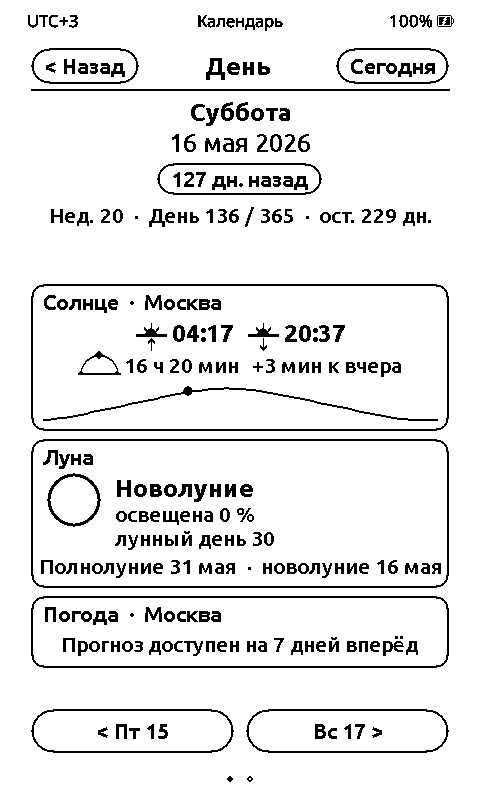
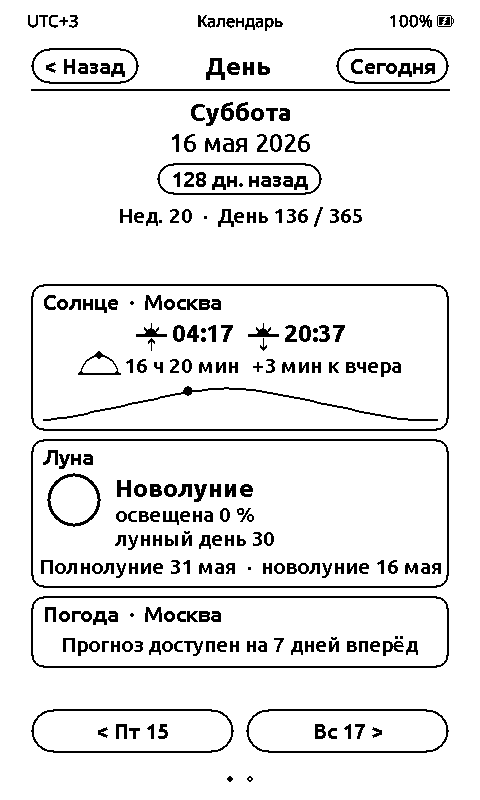
Понятная легенда «7 дней», убрано «ост. N дн.» на экране «День»
- Легенда: образцы полосы — чёрная часть «диапазон этого дня», пустая «остальная неделя»
- Экран «День»: из строки чипсов убрано «ост. N дн.»

diff --git a/overlay/src/activities/apps/standby/CalendarDetail.cpp b/overlay/src/activities/apps/standby/CalendarDetail.cpp
@@ -41,7 +41,6 @@ struct Txt {
   const char* yesterday;
   const char* inDays;    // %d
   const char* daysAgo;   // %d
-  const char* daysLeft;  // %d
   const char* dayTitle;
   const char* sun;
   const char* moon;
@@ -56,32 +55,37 @@ struct Txt {
   const char* noFcHint;
   const char* hourly;    // «сегодня»-страница: заголовок по часам
   const char* cap;       // подпись под графиком
-  const char* legTemp;   // легенда «7 дней»: что за числа слева и справа от полосы
-  const char* legBarShort;
-  const char* legTempShort;
+  // Легенда «7 дней»: что за числа по краям полосы и что значат её чёрная и пустая части.
+  const char* legTemp;    // портрет, жирная строка
+  const char* legFill;    // портрет: чёрная часть
+  const char* legEmpty;   // портрет: пустая часть
+  const char* legTempL;   // ландшафт, одна строка: числа
+  const char* legFillL;   // …чёрная часть
+  const char* legEmptyL;  // …пустая часть
 };
 
-const Txt kRu = {"Назад", "Сегодня", "сегодня", "завтра", "вчера", "через %d дн.", "%d дн. назад", "ост. %d дн.", "День",
+const Txt kRu = {"Назад", "Сегодня", "сегодня", "завтра", "вчера", "через %d дн.", "%d дн. назад", "День",
                  "Солнце", "Луна", "Погода", "освещена %d %%", "лунный день %d", "Полнолуние", "новолуние",
                  "%c%d мин к вчера", "Прогноз доступен на 7 дней вперёд", "7 дней",
                  "Загрузится при подключении к Wi-Fi", "сегодня",
                  "Температура · осадки % · ночь",
-                 "t\xC2\xB0 дня: слева мин, справа макс",
-                 "заливка — день, контур — неделя", "t\xC2\xB0 дня: мин … макс"};
-const Txt kEn = {"Back", "Today", "today", "tomorrow", "yesterday", "in %d days", "%d days ago", "%d left", "Day",
+                 "t\xC2\xB0: слева мин, справа макс за день", "чёрное — диапазон этого дня",
+                 "пустое — остальная неделя", "t\xC2\xB0: мин слева, макс справа", "этот день",
+                 "остальная неделя"};
+const Txt kEn = {"Back", "Today", "today", "tomorrow", "yesterday", "in %d days", "%d days ago", "Day",
                  "Sun", "Moon", "Weather", "%d %% lit", "lunar day %d", "Full moon", "new moon",
                  "%c%d min vs yesterday", "Forecast covers the next 7 days", "7 days",
                  "Loads when Wi-Fi is available", "today",
                  "Temp. · rain % · night",
-                 "Day t\xC2\xB0: min left, max right",
-                 "filled = day, outline = week", "Day t\xC2\xB0: min … max"};
-const Txt kDe = {"Zurück", "Heute", "heute", "morgen", "gestern", "in %d Tagen", "vor %d Tagen", "noch %d T.", "Tag",
+                 "t\xC2\xB0: min on the left, max on the right", "black = this day's range",
+                 "empty = rest of the week", "t\xC2\xB0: min left, max right", "this day", "rest of week"};
+const Txt kDe = {"Zurück", "Heute", "heute", "morgen", "gestern", "in %d Tagen", "vor %d Tagen", "Tag",
                  "Sonne", "Mond", "Wetter", "%d %% hell", "Mondtag %d", "Vollmond", "Neumond",
                  "%c%d Min zu gestern", "Vorhersage für die nächsten 7 Tage", "7 Tage",
                  "Wird bei WLAN geladen", "heute",
                  "Temp. · Regen % · Nacht",
-                 "Tages-t\xC2\xB0: links min, rechts max",
-                 "gefüllt = Tag, Umriss = Woche", "Tages-t\xC2\xB0: min … max"};
+                 "t\xC2\xB0: links min, rechts max des Tages", "schwarz = Bereich dieses Tages",
+                 "leer = Rest der Woche", "t\xC2\xB0: links min, rechts max", "dieser Tag", "übrige Woche"};
 
 const Txt& txt(Lang l) { return l == Lang::Ru ? kRu : l == Lang::De ? kDe : kEn; }
 
@@ -433,30 +437,43 @@ void drawWeatherToday(GfxRenderer& r, const Frame& f, const Ctx& c, const Txt& T
   drawHourTable(r, rx, ty, rw, rowH, hs, n, fc.utcOffsetSec, c);
 }
 
-// Легенда над списком дней: пример полосы (заливка — диапазон дня, контур — вся неделя) и что означают числа рядом с ней.
-// Портрет — две строки, ландшафт — одна (места по высоте нет). Возвращает высоту.
+// Легенда над списком дней: числа по краям полосы — минимум и максимум дня; сама полоса — шкала температур всей недели:
+// чёрная часть — где лежат температуры этого дня, пустая — остальной диапазон недели. Портрет — три строки, ландшафт — одна
+// (по высоте места нет). Возвращает высоту.
 int drawWeekLegend(GfxRenderer& r, int x, int y, int w, bool land, const Txt& T) {
   const int lhS = lineH(r, kFontSmall);
-  constexpr int kSampleW = 44, kBarH = 10;
-  int y0 = y;
+  constexpr int kSampleW = 40, kBarH = 10, kGap = 8;
+  auto sample = [&](int sx, int sy, bool filled) {  // образец полосы: сплошной или пустой
+    const int by = sy + (lhS - kBarH) / 2;
+    r.drawRoundedRect(sx, by, kSampleW, kBarH, 2, 5, true);
+    if (filled) r.fillRoundedRect(sx, by, kSampleW, kBarH, 5, Color::Black);
+  };
+  const int y0 = y;
   if (!land) {
     const Fit t(r, kFontSmall, T.legTemp, w - 12, kBold);
     r.drawText(kFontSmall, x + 6, y, t.c_str(), true, kBold);
     y += lhS + 2;
-  }
-  char text[96];
-  if (land) {
-    std::snprintf(text, sizeof(text), "%s  \xC2\xB7  %s", T.legTempShort, T.legBarShort);
+    for (int k = 0; k < 2; ++k) {
+      sample(x + 6, y, k == 0);
+      const int tx = x + 6 + kSampleW + kGap;
+      const Fit t2(r, kFontSmall, k == 0 ? T.legFill : T.legEmpty, x + w - tx - 4);
+      r.drawText(kFontSmall, tx, y, t2.c_str(), true);
+      y += lhS + 2;
+    }
   } else {
-    std::snprintf(text, sizeof(text), "%s", T.legBarShort);
+    int cx = x + 6;
+    r.drawText(kFontSmall, cx, y, T.legTempL, true, kBold);
+    cx += textW(r, kFontSmall, T.legTempL, kBold) + 14;
+    for (int k = 0; k < 2; ++k) {
+      const char* lb = k == 0 ? T.legFillL : T.legEmptyL;
+      sample(cx, y, k == 0);
+      cx += kSampleW + kGap;
+      r.drawText(kFontSmall, cx, y, lb, true);
+      cx += textW(r, kFontSmall, lb) + 14;
+    }
+    y += lhS + 2;
   }
-  const int by = y + (lhS - kBarH) / 2;
-  r.drawRoundedRect(x + 6, by, kSampleW, kBarH, 2, 5, true);
-  r.fillRoundedRect(x + 6 + kSampleW * 30 / 100, by, kSampleW * 40 / 100, kBarH, 5, Color::Black);
-  const int tx = x + 6 + kSampleW + 8;
-  const Fit t(r, kFontSmall, text, x + w - tx - 4);
-  r.drawText(kFontSmall, tx, y, t.c_str(), true);
-  y += lhS + 6;
+  y += 4;
   r.drawLine(x, y - 3, x + w, y - 3, 1, true);
   return y - y0;
 }
@@ -789,12 +806,7 @@ int drawDayTitle(GfxRenderer& r, int x, int y, int w, const Ctx& c, const Txt& T
   const auto& CL = calendar_core::labels(c.lang);
   char chips[96];
   const unsigned diy = calendar_core::daysInYear(s.dayY), doy = calendar_core::dayOfYear(s.dayY, s.dayM, s.dayD);
-  char left[40];
-  std::snprintf(left, sizeof(left), T.daysLeft, static_cast<int>(diy - doy));
-  std::snprintf(chips, sizeof(chips), "%s %u  \xC2\xB7  %s %u / %u  \xC2\xB7  %s", CL.week, calendar_core::isoWeek(s.dayY, s.dayM, s.dayD), CL.day, doy, diy, left);
-  if (textW(r, kFontSmall, chips) > w - 8) {  // узкая колонка: без «осталось N дн.»
-    std::snprintf(chips, sizeof(chips), "%s %u  \xC2\xB7  %s %u / %u", CL.week, calendar_core::isoWeek(s.dayY, s.dayM, s.dayD), CL.day, doy, diy);
-  }
+  std::snprintf(chips, sizeof(chips), "%s %u  \xC2\xB7  %s %u / %u", CL.week, calendar_core::isoWeek(s.dayY, s.dayM, s.dayD), CL.day, doy, diy);
   const Fit tc(r, kFontSmall, chips, w - 8);
   drawCentered(r, kFontSmall, x, w, y, tc.c_str());
   y += lhS + 8;

diff --git a/CONCEPT.md b/CONCEPT.md
@@ -774,7 +774,7 @@ SIM_BUILD_ONLY=1 ./scripts/sim.sh     # только собрать
 Уточнения по замечаниям владельца: числа сетки — обычного начертания (Ubuntu Regular; `kGridDigitsBold = true` возвращает Medium — генератор
 выбирает гарнитуру по этой настройке, `static_assert` следит за согласованностью); мин/макс — «t↓ / t↑» (буква t — температура);
 длина дня — значок «дуга солнца» (слева восход, справа закат, на вершине солнце); экран «7 дней» получил легенду над списком:
-что означают числа слева и справа от полосы и что значат заливка (этот день) и контур (вся неделя).
+что означают числа слева и справа от полосы и что значат чёрная часть полосы (диапазон этого дня) и пустая (остальная неделя).
 
 ---
 
